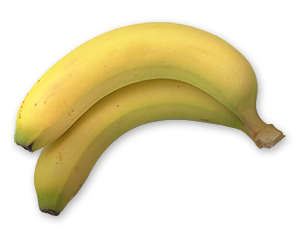
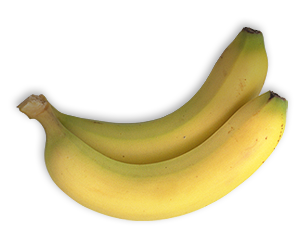
replaced copyrighted images in InternalFrameDemo
git-svn-id: https://swingset3.dev.java.net/svn/swingset3/trunk@134 4398f88d-df26-0410-a7eb-fe6337abf351

diff --git a/SwingSet3/src/swingset3/demos/containers/InternalFrameDemo.java b/SwingSet3/src/swingset3/demos/containers/InternalFrameDemo.java
@@ -51,6 +51,7 @@ import javax.swing.JPanel;
 import javax.swing.JScrollPane;
 import javax.swing.JTextField;
 
+import javax.swing.border.EmptyBorder;
 import swingset3.DemoProperties;
 import swingset3.demos.DemoBase;
 
@@ -71,21 +72,22 @@ import swingset3.demos.DemoBase;
                 "swingset3/demos/DemoBase.java"
                 }
 )
-public class InternalFrameDemo extends DemoBase {
-    private static final int FRAME0_X = 10;
-    private static final int FRAME0_Y = 230;
+public class InternalFrameDemo extends DemoBase { 
 
-    private static final int FRAME0_WIDTH = 300;
-    private static final int FRAME0_HEIGHT = 230;
-
-    private static final int FRAME_WIDTH = 225;
-    private static final int FRAME_HEIGHT = 150;
-
-    private static final int PALETTE_X = 320;
+    private static final int PALETTE_X = 20;
     private static final int PALETTE_Y = 20;
 
     private static final int PALETTE_WIDTH = 250;
-    private static final int PALETTE_HEIGHT = 250;
+    private static final int PALETTE_HEIGHT = 250;    
+    
+    private static final int FRAME0_X = PALETTE_X + PALETTE_WIDTH + 20;
+    private static final int FRAME0_Y = 20;
+
+    private static final int FRAME0_WIDTH = 300;
+    private static final int FRAME0_HEIGHT = 300;
+
+    private static final int FRAME_WIDTH = 300;
+    private static final int FRAME_HEIGHT = 300;
 
     private int windowCount = 0;
     private JDesktopPane desktop = null;
@@ -99,7 +101,6 @@ public class InternalFrameDemo extends DemoBase {
     private final ImageIcon smIcon3;
     private final ImageIcon smIcon4;
 
-    private final Integer FIRST_FRAME_LAYER = new Integer(1);
     private final Integer DEMO_FRAME_LAYER = new Integer(2);
     private final Integer PALETTE_LAYER = new Integer(3);
 
@@ -127,31 +128,29 @@ public class InternalFrameDemo extends DemoBase {
         super();
 
         // preload all the icons we need for this demo
-        icon1 = createImageIcon("ImageClub/misc/fish.gif", getString("InternalFrameDemo.fish"));
-        icon2 = createImageIcon("ImageClub/misc/moon.gif", getString("InternalFrameDemo.moon"));
-        icon3 = createImageIcon("ImageClub/misc/sun.gif", getString("InternalFrameDemo.sun"));
-        icon4 = createImageIcon("ImageClub/misc/cab.gif", getString("InternalFrameDemo.cab"));
+        icon1 = createImageIcon("internalframe/bananas.png", getString("InternalFrameDemo.bananas"));
+        icon2 = createImageIcon("internalframe/globe.png", getString("InternalFrameDemo.globe"));
+        icon3 = createImageIcon("internalframe/package.png", getString("InternalFrameDemo.package"));
+        icon4 = createImageIcon("internalframe/soccer_ball.png", getString("InternalFrameDemo.soccerball"));
 
-        smIcon1 = createImageIcon("ImageClub/misc/fish_small.gif", getString("InternalFrameDemo.fish"));
-        smIcon2 = createImageIcon("ImageClub/misc/moon_small.gif", getString("InternalFrameDemo.moon"));
-        smIcon3 = createImageIcon("ImageClub/misc/sun_small.gif", getString("InternalFrameDemo.sun"));
-        smIcon4 = createImageIcon("ImageClub/misc/cab_small.gif", getString("InternalFrameDemo.cab"));
+        smIcon1 = createImageIcon("internalframe/bananas_small.png", getString("InternalFrameDemo.bananas"));
+        smIcon2 = createImageIcon("internalframe/globe_small.png", getString("InternalFrameDemo.globe"));
+        smIcon3 = createImageIcon("internalframe/package_small.png", getString("InternalFrameDemo.package"));
+        smIcon4 = createImageIcon("internalframe/soccer_ball_small.png", getString("InternalFrameDemo.soccerball"));
 
-        // Create the desktop pane
+        //<snip>Create desktop pane
+        // The desktop pane will contain all the internal frames
         desktop = new JDesktopPane();
         getDemoPanel().add(desktop, BorderLayout.CENTER);
+        //</snip>
 
         // Create the "frame maker" palette
         createInternalFramePalette();
 
         // Create an initial internal frame to show
-        JInternalFrame frame1 = createInternalFrame(icon1, FIRST_FRAME_LAYER, 1, 1);
+        JInternalFrame frame1 = createInternalFrame(icon2, DEMO_FRAME_LAYER, 1, 1);
         frame1.setBounds(FRAME0_X, FRAME0_Y, FRAME0_WIDTH, FRAME0_HEIGHT);
 
-        // Create more starter windows
-        createInternalFrame(icon3, DEMO_FRAME_LAYER, FRAME_WIDTH, FRAME_HEIGHT);
-        createInternalFrame(icon4, DEMO_FRAME_LAYER, FRAME_WIDTH, FRAME_HEIGHT);
-        createInternalFrame(icon2, DEMO_FRAME_LAYER, FRAME_WIDTH, FRAME_HEIGHT);
     }
 
 
@@ -159,37 +158,43 @@ public class InternalFrameDemo extends DemoBase {
      * Create an internal frame and add a scrollable imageicon to it
      */
     public JInternalFrame createInternalFrame(Icon icon, Integer layer, int width, int height) {
-        JInternalFrame jif = new JInternalFrame();
+        //<snip>Create internal frame
+        JInternalFrame internalFrame = new JInternalFrame();
+        //</snip>
 
         if (!windowTitleField.getText().equals(getString("InternalFrameDemo.frame_label"))) {
-            jif.setTitle(windowTitleField.getText() + "  ");
+            internalFrame.setTitle(windowTitleField.getText() + "  ");
         } else {
-            jif = new JInternalFrame(getString("InternalFrameDemo.frame_label") + " " + windowCount + "  ");
+            internalFrame = new JInternalFrame(getString("InternalFrameDemo.frame_label") + " " + windowCount + "  ");
         }
 
-        // set properties
-        jif.setClosable(windowClosable.isSelected());
-        jif.setMaximizable(windowMaximizable.isSelected());
-        jif.setIconifiable(windowIconifiable.isSelected());
-        jif.setResizable(windowResizable.isSelected());
+        //<snip>Set internal frame properties
+        internalFrame.setClosable(windowClosable.isSelected());
+        internalFrame.setMaximizable(windowMaximizable.isSelected());
+        internalFrame.setIconifiable(windowIconifiable.isSelected());
+        internalFrame.setResizable(windowResizable.isSelected());
+        //</snip>
 
-        jif.setBounds(20 * (windowCount % 10), 20 * (windowCount % 10), width, height);
-        jif.setContentPane(new ImageScroller(icon));
+        internalFrame.setBounds(FRAME0_X + 20 * (windowCount % 10), 
+                                FRAME0_Y + 20 * (windowCount % 10), width, height);
+        internalFrame.setContentPane(new ImageScroller(icon));
 
         windowCount++;
 
-        desktop.add(jif, layer);
+        //<snip>Add internal frame to desktop pane
+        desktop.add(internalFrame, layer);
+        //</snip>
 
-        // Set this internal frame to be selected
-
+        //<snip>Set internal frame to be active
         try {
-            jif.setSelected(true);
+            internalFrame.setSelected(true);
         } catch (java.beans.PropertyVetoException e2) {
         }
+        //</snip>
 
-        jif.show();
+        internalFrame.show();
 
-        return jif;
+        return internalFrame;
     }
 
     public JInternalFrame createInternalFramePalette() {
@@ -212,10 +217,10 @@ public class InternalFrameDemo extends DemoBase {
         JButton b4 = new JButton(smIcon4);
 
         // add frame maker actions
-        b1.addActionListener(new ShowFrameAction(this, icon1));
-        b2.addActionListener(new ShowFrameAction(this, icon2));
-        b3.addActionListener(new ShowFrameAction(this, icon3));
-        b4.addActionListener(new ShowFrameAction(this, icon4));
+        b1.addActionListener(new CreateFrameAction(this, icon1));
+        b2.addActionListener(new CreateFrameAction(this, icon2));
+        b3.addActionListener(new CreateFrameAction(this, icon3));
+        b4.addActionListener(new CreateFrameAction(this, icon4));
 
         // add frame maker buttons to panel
         JPanel p = new JPanel();
@@ -246,13 +251,8 @@ public class InternalFrameDemo extends DemoBase {
         // ************************************
         // * Create frame property checkboxes *
         // ************************************
-        p = new JPanel() {
-            final Insets insets = new Insets(10, 15, 10, 5);
-
-            public Insets getInsets() {
-                return insets;
-            }
-        };
+        p = new JPanel();
+        p.setBorder(new EmptyBorder(10, 15, 10, 5));
         p.setLayout(new GridLayout(1, 2));
 
 
@@ -281,13 +281,8 @@ public class InternalFrameDemo extends DemoBase {
         // ************************************
         // *   Create Frame title textfield   *
         // ************************************
-        p = new JPanel() {
-            final Insets insets = new Insets(0, 0, 10, 0);
-
-            public Insets getInsets() {
-                return insets;
-            }
-        };
+        p = new JPanel();
+        p.setBorder(new EmptyBorder(0, 0, 10, 0));
 
         windowTitleField = new JTextField(getString("InternalFrameDemo.frame_label"));
         windowTitleLabel = new JLabel(getString("InternalFrameDemo.title_text_field_label"));
@@ -307,11 +302,11 @@ public class InternalFrameDemo extends DemoBase {
     }
 
 
-    class ShowFrameAction extends AbstractAction {
+    class CreateFrameAction extends AbstractAction {
         final InternalFrameDemo demo;
         final Icon icon;
 
-        public ShowFrameAction(InternalFrameDemo demo, Icon icon) {
+        public CreateFrameAction(InternalFrameDemo demo, Icon icon) {
             this.demo = demo;
             this.icon = icon;
         }
